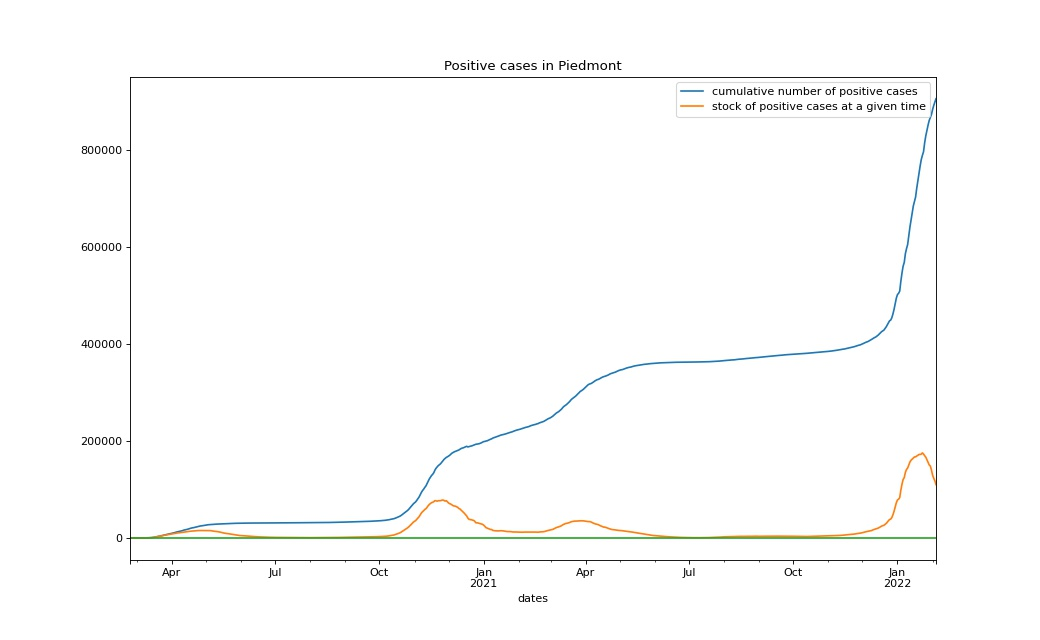
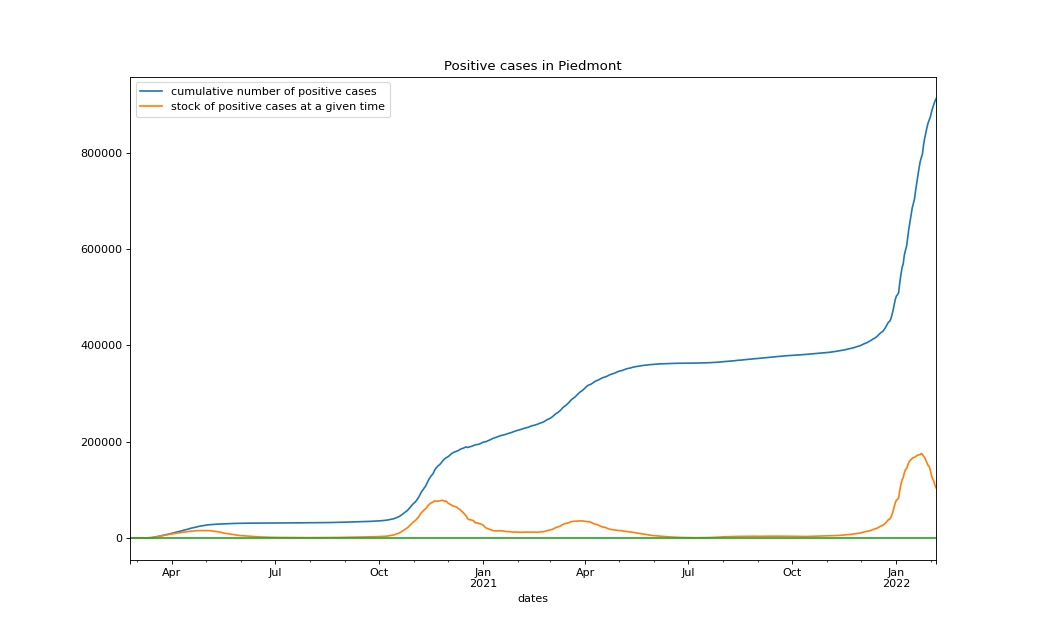
update data

diff --git a/CircoloSubalpino20220208.tex b/CircoloSubalpino20220208.tex
@@ -270,7 +270,7 @@ In ogni figura, 10.000 simulazoni.
 
 
 %%%%%%%%%%%%%%%%%%%%%%%%%%%%%%%%%%%%%%%%%%%%%%%%%%%%%%%%%
-\begin{frame}{Serie aggiornata, con la terza e la quarta ondata, dati sino al 4 febbraio 2022}
+\begin{frame}{Serie aggiornata, con la terza e la quarta ondata, dati sino al 5 febbraio 2022}
 
 \begin{figure}[H]
 \center
